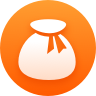
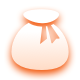
feat: 调整图片

diff --git a/src/packages/footer-tools/src/main.vue b/src/packages/footer-tools/src/main.vue
@@ -93,7 +93,9 @@
       <li v-if="roomBaseState.configList['ui.hide_reward'] == '0' && !isEmbed">
         <!-- 打赏 -->
         <div class="vh-icon-box">
-          <img src="./img/reward-icon.png" alt="" @click="onClickReward" />
+          <div class="vmp-reward-icon">
+            <img src="./img/reward-icon.png" alt="" @click="onClickReward" />
+          </div>
           <reward ref="reward" />
         </div>
       </li>
@@ -375,6 +377,20 @@
       .vh-gifts-wrap {
         border-radius: 16px;
         position: relative;
+        width: 32px;
+        height: 32px;
+        line-height: 32px;
+        background: linear-gradient(180deg, #fca810 0%, #fe7d00 100%);
+        border-radius: 16px;
+        cursor: pointer;
+        margin-left: 16px;
+        img {
+          width: 32px;
+          height: 32px;
+          -webkit-transform-origin: left center;
+          transform-origin: left center;
+          margin: 0 0;
+        }
       }
     }
     &__center {
@@ -397,6 +413,22 @@
     }
     .pr {
       position: relative;
+    }
+  }
+  .vmp-reward-icon {
+    width: 32px;
+    height: 32px;
+    line-height: 32px;
+    background: linear-gradient(180deg, #ff9d30 0%, #ff9e31 100%);
+    border-radius: 16px;
+    cursor: pointer;
+    margin-left: 16px;
+    img {
+      width: 32px;
+      height: 32px;
+      -webkit-transform-origin: left center;
+      transform-origin: left center;
+      margin: 0 0;
     }
   }
 </style>

diff --git a/src/packages/footer-tools/src/component/questionnaire-icon/index.vue b/src/packages/footer-tools/src/component/questionnaire-icon/index.vue
@@ -36,6 +36,20 @@
   .vmp-questionnaire-icon {
     color: #fff;
     position: relative;
+    width: 32px;
+    height: 32px;
+    line-height: 32px;
+    background: linear-gradient(180deg, #5ac1ff 0%, #2578ff 100%);
+    border-radius: 16px;
+    cursor: pointer;
+    margin-left: 16px;
+    img {
+      width: 32px;
+      height: 32px;
+      -webkit-transform-origin: left center;
+      transform-origin: left center;
+      margin: 0 0;
+    }
     .vmp-dot {
       position: absolute;
       display: inline-block;
@@ -46,11 +60,6 @@
       border-radius: 50%;
       right: -3px;
       position: absolute;
-    }
-    img {
-      width: 32px;
-      height: 32px;
-      cursor: pointer;
     }
   }
 </style>

diff --git a/src/packages/footer-tools/src/component/notice/index.vue b/src/packages/footer-tools/src/component/notice/index.vue
@@ -147,15 +147,20 @@
     &_icon {
       position: relative;
       .icon-img {
-        height: 32px;
-        width: 32px;
-        line-height: 32px;
-        border-radius: 50%;
         position: relative;
+        width: 32px;
+        height: 32px;
+        line-height: 32px;
+        background: linear-gradient(180deg, #fca810 0%, #fe7d00 100%);
+        border-radius: 16px;
         cursor: pointer;
+        margin-left: 16px;
         img {
-          height: 32px;
           width: 32px;
+          height: 32px;
+          -webkit-transform-origin: left center;
+          transform-origin: left center;
+          margin: 0 0;
         }
       }
       .icon-num {

diff --git a/src/packages/sign-module/sign-watch/src/main.vue b/src/packages/sign-module/sign-watch/src/main.vue
@@ -205,13 +205,21 @@
 <style lang="less">
   .vmp-sign-watch {
     &_icon {
+      position: relative;
       width: 32px;
       height: 32px;
-      border-radius: 50%;
-      cursor: pointer;
-      position: relative;
-      margin-left: 16px;
       line-height: 32px;
+      background: linear-gradient(180deg, #878EFF 0%, #5565FF 100%);
+      border-radius: 16px;
+      cursor: pointer;
+      margin-left: 16px;
+      img {
+        width: 32px;
+        height: 32px;
+        -webkit-transform-origin: left center;
+        transform-origin: left center;
+        margin: 0 0;
+      }
       .sign-circle {
         position: absolute;
         top: -2px;

diff --git a/src/packages/footer-tools/src/component/red-packet-icon/index.vue b/src/packages/footer-tools/src/component/red-packet-icon/index.vue
@@ -42,6 +42,20 @@
   .vmp-red-packet-icon {
     color: #fff;
     position: relative;
+    width: 32px;
+    height: 32px;
+    line-height: 32px;
+    background: linear-gradient(180deg, #ff765a 0%, #f6261d 100%);
+    border-radius: 16px;
+    cursor: pointer;
+    margin-left: 16px;
+    img {
+      width: 32px;
+      height: 32px;
+      -webkit-transform-origin: left center;
+      transform-origin: left center;
+      margin: 0 0;
+    }
     .vmp-dot {
       position: absolute;
       display: inline-block;

diff --git a/src/packages/footer-tools/src/component/lottery-icon/index.vue b/src/packages/footer-tools/src/component/lottery-icon/index.vue
@@ -76,6 +76,21 @@
   .vmp-lottery-icon {
     color: #fff;
     position: relative;
+    width: 32px;
+    height: 32px;
+    line-height: 32px;
+    background: linear-gradient(180deg, #fca810 0%, #ff9e31 100%);
+    border-radius: 16px;
+    cursor: pointer;
+    margin-left: 16px;
+    img {
+      width: 32px;
+      height: 32px;
+      -webkit-transform-origin: left center;
+      transform-origin: left center;
+      margin: 0 0;
+    }
+
     .vmp-dot {
       position: absolute;
       display: inline-block;

diff --git a/src/packages/doc-une/src/main.vue b/src/packages/doc-une/src/main.vue
@@ -1098,7 +1098,7 @@
         }
 
         &.selected {
-          color: #fc5659;
+          color: #fb3a32;
           cursor: pointer;
         }
       }
